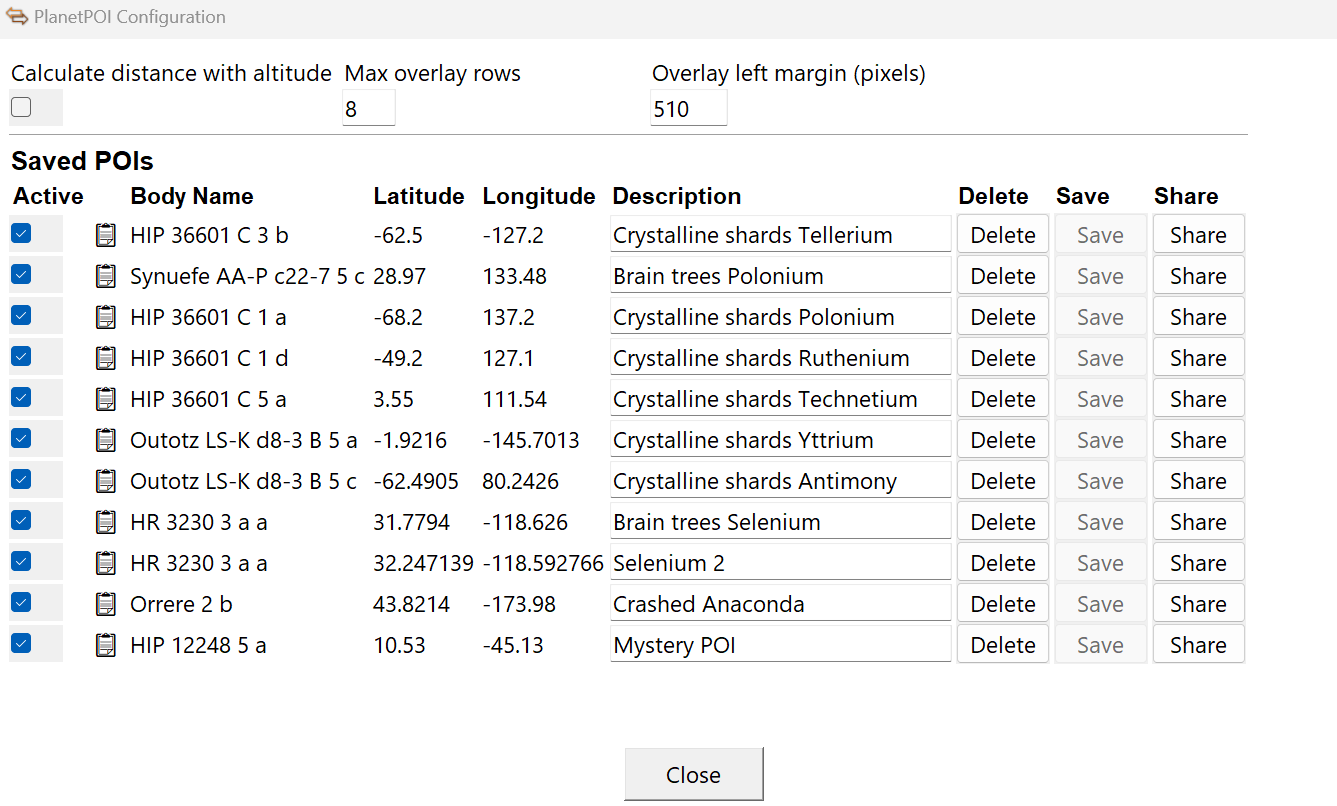
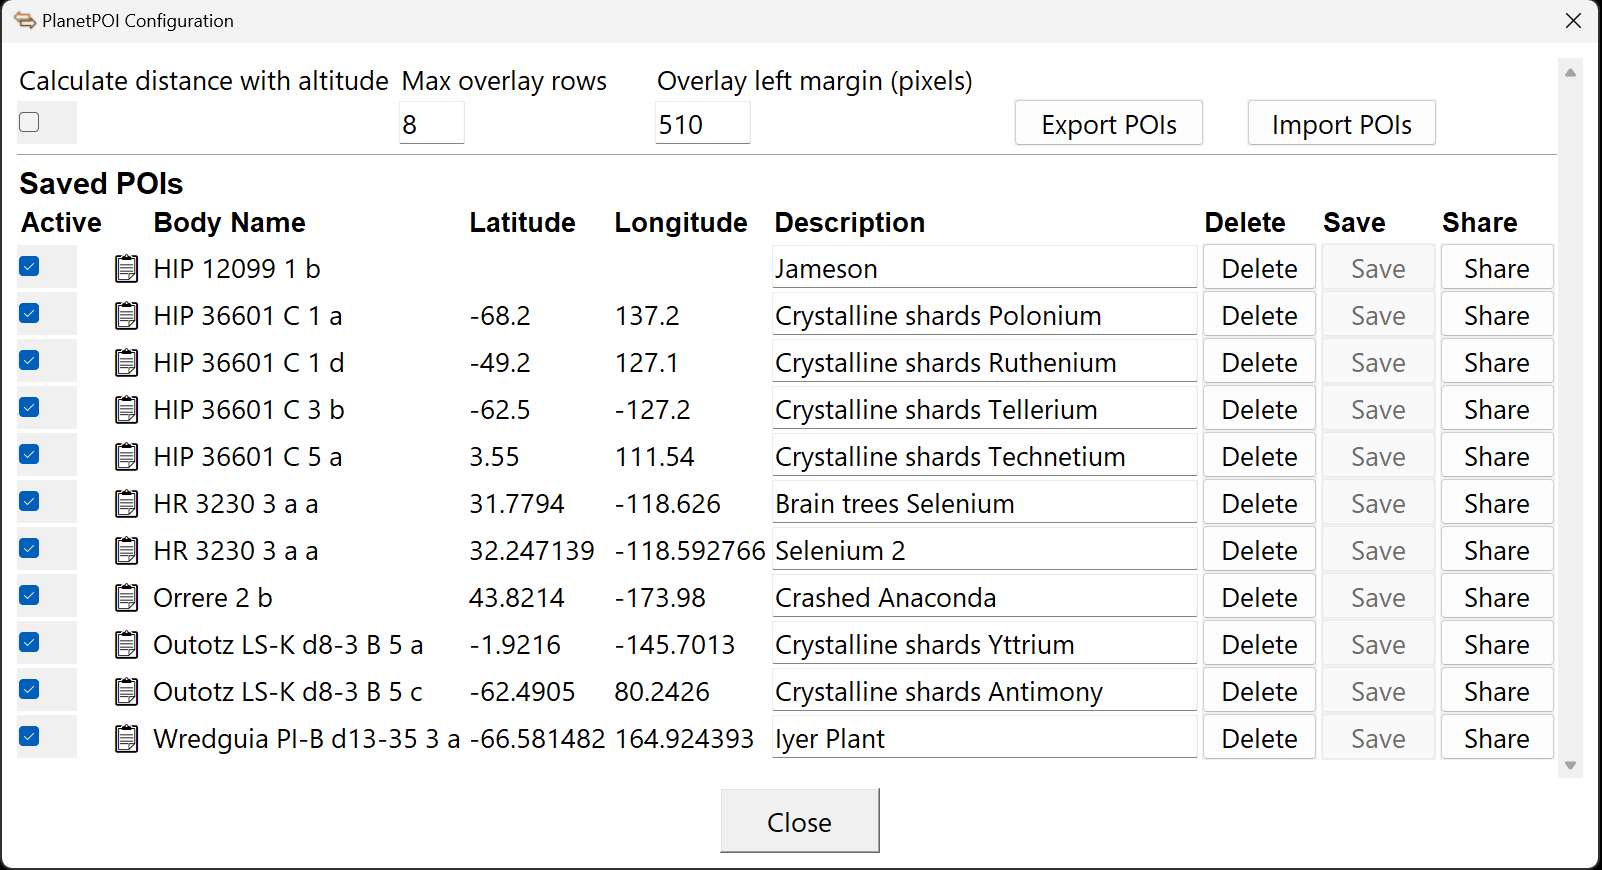
Updated README

Changed region(s): [[0.0, 0.0, 1.0, 1.0], [0.0, 0.0, 0.1533, 0.031]]

diff --git a/README.md b/README.md
@@ -1,32 +1,103 @@
-# EDMC Planet Poi Plugin
+# EDMC Planet POI Plugin
 
-Plugin for [EDMC](https://github.com/EDCD/EDMarketConnector) that lets you save positions on planets/bodys and help you navigate to them.  
-Useful when cruising around and suddenly want to save current position or find a location shared by someone else.
+Plugin for [EDMC](https://github.com/EDCD/EDMarketConnector) that helps you save and navigate to Points of Interest (POIs) on planetary surfaces in Elite Dangerous.  
+Perfect for saving interesting locations while exploring, organizing your discoveries, and sharing coordinates with other commanders.
 
-To get ingame overlay, you need [EDMCOverlay](https://github.com/inorton/EDMCOverlay) installed.  
-  
-in setting you can adjust max poi´s to show, if body has multiple saved. Adjust the overlay position, and choose if altitude is added to distance or not.
-You can share poi with a link, to other commanders.   
-![Screenshot](images/EDMC_Settings.png)  
+## Features
 
-Add new poi´s by pressing the + button in the gui, System name is verified against Spansh API.
-Current position will be autofilled if in orbit of a body, otherwise only current system.
-If you have a shared link in clipboard, you can paste a shared poi with ctrl+V or the button.
+### 📍 Save & Navigate POIs
+- Save planetary coordinates with descriptions and notes
+- Automatically captures your current position when on a surface
+- Real-time in-game overlay showing bearing and distance to active POIs
+- System name validation through Spansh API
+- Proper Elite Dangerous body name formatting (e.g., "C 3 a b")
 
-![Screenshot](images/Add_poi.png)  
+### 📁 Folder Organization
+- Organize POIs into folders for better management
+- Create nested folder structures
+- Move POIs and folders between locations
+- Collapsible folder view in the main UI
 
-The EDMC gui will show bodynames that have poi´s and their description when entering a system.
+### 🔗 Share POIs
+- Generate shareable links for any POI
+- Auto-detect and paste shared links with Ctrl+V
+- Copy system names to clipboard for easy navigation setup
+- Share individual POIs or entire collections via JSON export/import
 
-![Screenshot](images/EDMC_system.png)
+### ⚙ Customizable Settings
+- Adjust maximum number of overlay rows displayed
+- Configure overlay horizontal position
+- Toggle altitude-based distance calculation
+- Enable/disable individual POI overlays with checkboxes
 
-As soon as the dashboard shows coordinates, the ui will switch to body mode and only show the poi´s for the body.  
-You can use the gui checkboxes to enable/disable ingame overlay for individual Poi´s.   
+### 📥 Import/Export
+- Export all POIs to JSON file
+- Import POIs from JSON file (merge or replace)
+- Backup and share your entire POI collection
 
-![Screenshot](images/EDMC_gui.png)
+## Screenshots
 
-![Screenshot](images/overlay.png)
+### Configuration Settings
+Adjust overlay position, maximum visible POIs, and altitude calculation options:
+
+![Settings](images/EDMC_Settings.png)
+
+### Add/Edit POI Dialog
+Add new POIs with system name autocomplete. Auto-fills current position when on a planetary surface. Paste shared links with Ctrl+V:
+
+![Add POI](images/Add_poi.png)
+
+### System View
+When entering a system, see all POIs organized by body:
+
+![System View](images/EDMC_system.png)
+
+### Body View
+On a planetary surface, see all POIs for that body. Use checkboxes to toggle overlay visibility:
+
+![Body View](images/EDMC_gui.png)
+
+### In-Game Overlay
+Real-time overlay showing bearing, distance, and description for active POIs (requires EDMCOverlay):
+
+![Overlay](images/overlay.png)
 
 ## Installation
 
-Download [latest release](https://github.com/bbbkada/EDMC-PlanetPOI/releases) zip-file and unpack to EDMC Plugin folder.  
-Remember to install [EDMCOverlay](https://github.com/inorton/EDMCOverlay) if you want in-game overlay.
+1. Download the [latest release](https://github.com/bbbkada/EDMC-PlanetPOI/releases) zip file
+2. Extract to your EDMC plugins folder:
+   - Windows: `%LOCALAPPDATA%\EDMarketConnector\plugins\`
+3. Restart EDMC
+4. **(Optional but recommended)** Install [EDMCOverlay](https://github.com/inorton/EDMCOverlay) for in-game overlay functionality
+
+## Usage
+
+### Adding POIs
+- Click the **+** button in the EDMC interface
+- System name will auto-fill when in a system
+- Coordinates auto-fill when on a planetary surface
+- Use Ctrl+V or the paste button to load shared POI links
+- Add description and notes for your reference
+
+### Managing POIs
+- **Checkboxes**: Enable/disable individual POI overlays
+- **Menu (☰)**: Access edit, move, delete, share, and folder operations
+- **Folders**: Organize POIs into folders, create nested structures
+- **System name**: Click to copy to clipboard for navigation
+
+### Sharing POIs
+- Right-click or use the menu to generate a share link
+- Share the link with other commanders
+- Recipients can paste the link when adding a new POI
+
+### Settings
+- Click the **⚙** (gear icon) to open configuration
+- Set maximum overlay rows to avoid clutter
+- Adjust overlay horizontal position to fit your HUD layout
+- Enable altitude-based distance for 3D distance calculation
+
+## Requirements
+
+- [Elite Dangerous Market Connector (EDMC)](https://github.com/EDCD/EDMarketConnector)
+- [EDMCOverlay](https://github.com/inorton/EDMCOverlay) (optional, for in-game overlay)
+- Elite Dangerous (Horizons/Odyssey for planetary landings)
